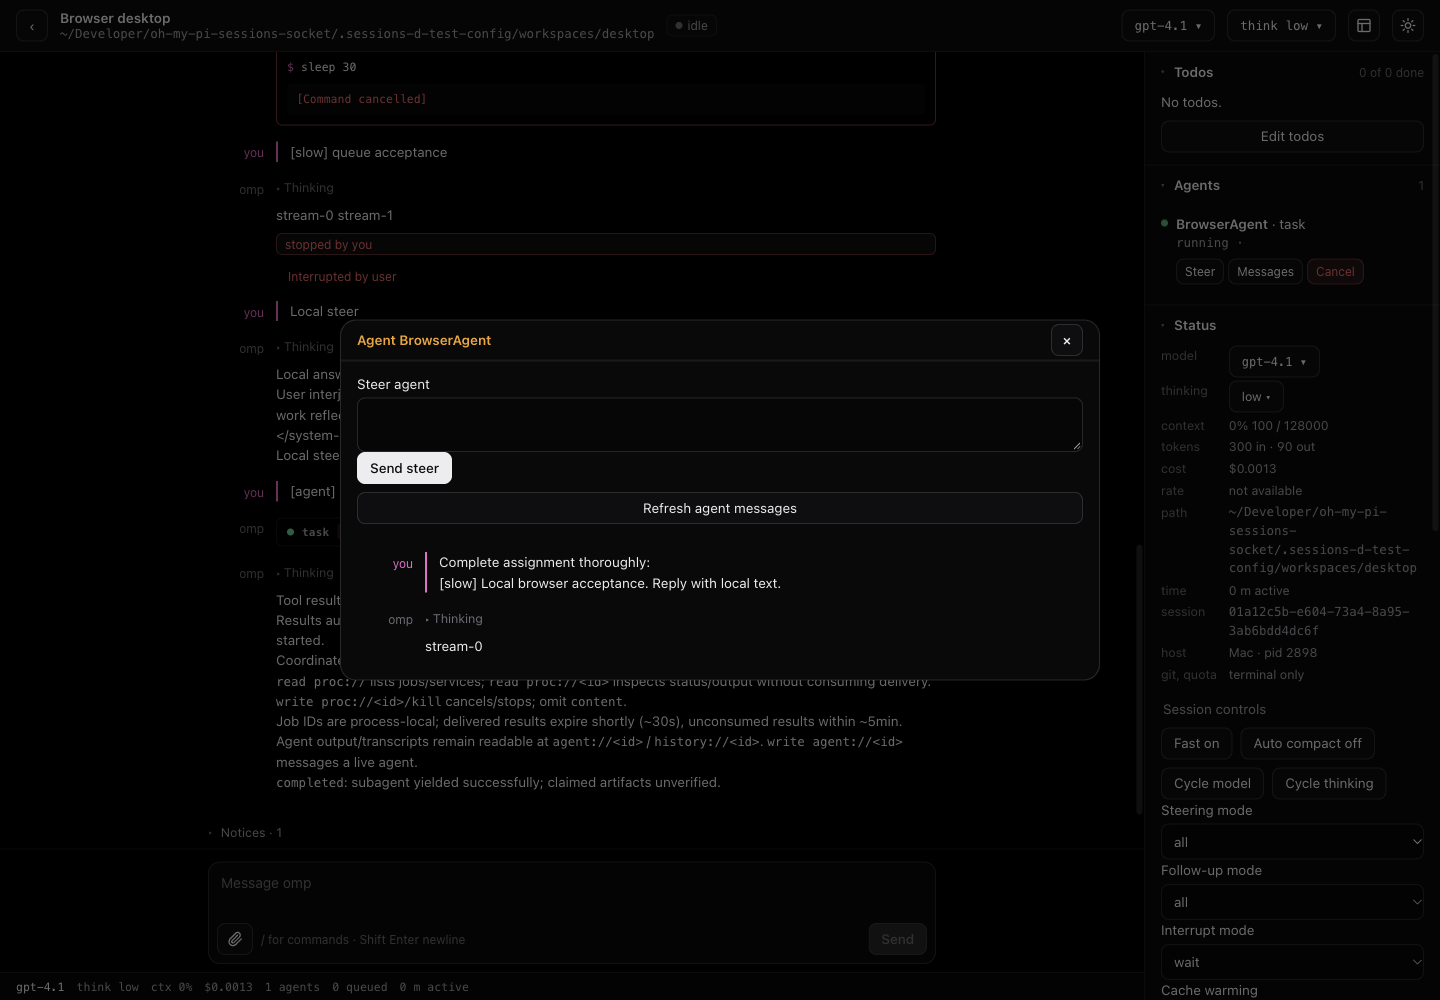
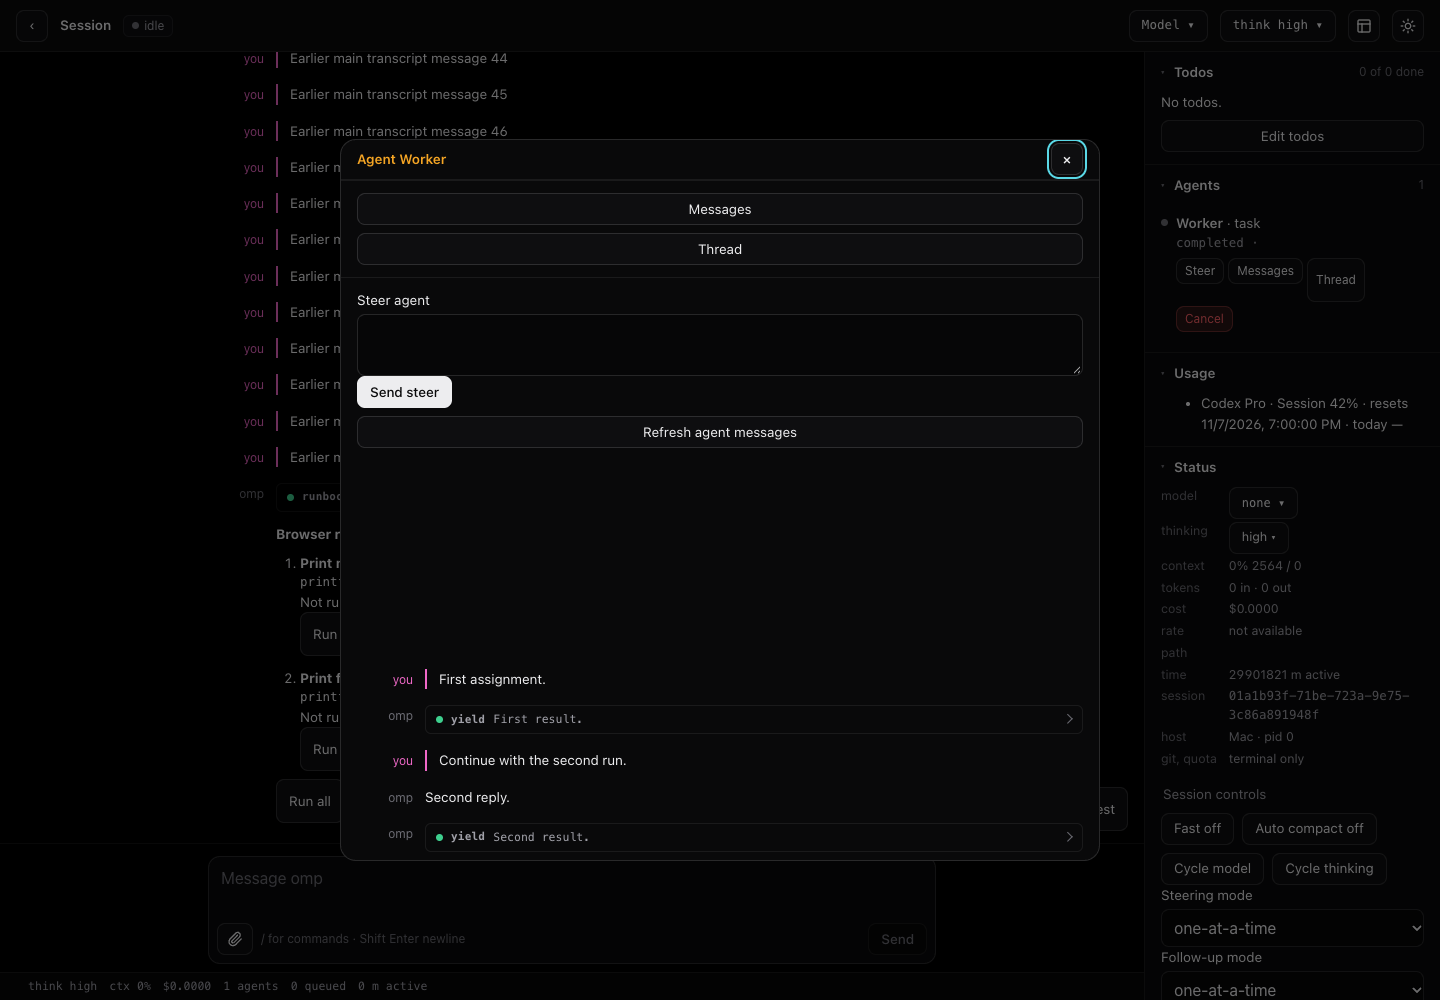
fix(sessions): share in-flight journal fetches

diff --git a/packages/sessions-web/test/client.test.ts b/packages/sessions-web/test/client.test.ts
@@ -1512,6 +1512,45 @@ test("entry polling appends runbook runs with the last journal id and resets an 
 	expect(client.getSnapshot().entries?.map(entry => entry.id)).toEqual(["fresh"]);
 });
 
+test("overlapping refreshes share a slow full entries fetch and then use its cursor", async () => {
+	const cursors: unknown[] = [];
+	const fullRequested = Promise.withResolvers<void>();
+	let releaseFull = () => {};
+	let stats = 0;
+	const client = fixtureClient((_stream, command, respond) => {
+		if (command.type === "get_entries") {
+			cursors.push(command.since);
+			if (command.since === undefined) {
+				releaseFull = () =>
+					respond({
+						entries: [
+							{ id: "run-1", parentId: null, type: "custom", customType: "runbook-run", data: {} },
+							{ id: "tail-1", parentId: "run-1", type: "message" },
+						],
+						leafId: "tail-1",
+					});
+				fullRequested.resolve();
+			} else respond({ entries: [], leafId: "tail-1" });
+			return true;
+		}
+		if (command.type === "get_session_stats") {
+			respond({ tokens: ++stats });
+			return true;
+		}
+	});
+	client.connect();
+	await fullRequested.promise;
+	const overlaps = Promise.all([client.refresh(), client.refresh()]);
+	await waitForSnapshot(client, snapshot => Number(snapshot.stats.tokens) >= 3);
+	expect(cursors).toEqual([undefined]);
+	releaseFull();
+	await overlaps;
+	expect(client.getSnapshot().entries?.map(entry => entry.id)).toEqual(["run-1"]);
+	await client.refresh();
+	expect(cursors).toEqual([undefined, "tail-1"]);
+	expect(client.getSnapshot().entries?.map(entry => entry.id)).toEqual(["run-1"]);
+});
+
 test("a pending or failed entries fetch does not block stats, agents or usage updates", async () => {
 	let update = false;
 	let rejectEntries = () => {};

diff --git a/packages/sessions-web/src/client.ts b/packages/sessions-web/src/client.ts
@@ -189,6 +189,7 @@ export class SessionClient {
 	#entryParents = new Map<string, string>();
 	#runbookRuns = new Map<string, RecordValue>();
 	#entriesRequest = 0;
+	#entriesInFlight?: Promise<void>;
 	#resume = (event: Event): void => {
 		if (typeof document !== "undefined" && document.hidden) return;
 		if (
@@ -575,7 +576,13 @@ export class SessionClient {
 		const state = await this.request({ type: "get_state" }, 10_000);
 		if (generation !== this.#generation || hydration !== this.#hydration) return;
 		if (revision === this.#snapshot.revision) this.#setState(state);
-		const entries = this.#refreshEntries(generation, hydration).catch(error => {
+		if (!this.#entriesInFlight) {
+			const inFlight = this.#refreshEntries(generation, hydration).finally(() => {
+				if (this.#entriesInFlight === inFlight) this.#entriesInFlight = undefined;
+			});
+			this.#entriesInFlight = inFlight;
+		}
+		const entries = this.#entriesInFlight.catch(error => {
 			if (generation === this.#generation && hydration === this.#hydration) this.#publish({ error: String(error) });
 		});
 		try {
@@ -740,6 +747,7 @@ export class SessionClient {
 			this.#entryParents.clear();
 			this.#runbookRuns.clear();
 			++this.#entriesRequest;
+			this.#entriesInFlight = undefined;
 			this.#publish({ agents: [], entries: [], usage: undefined, usageError: undefined });
 		}
 		this.#publish({ state });
